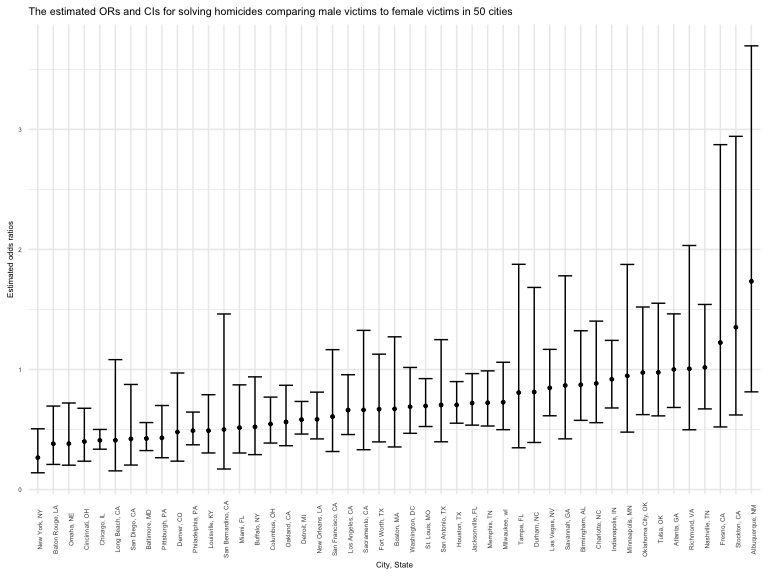
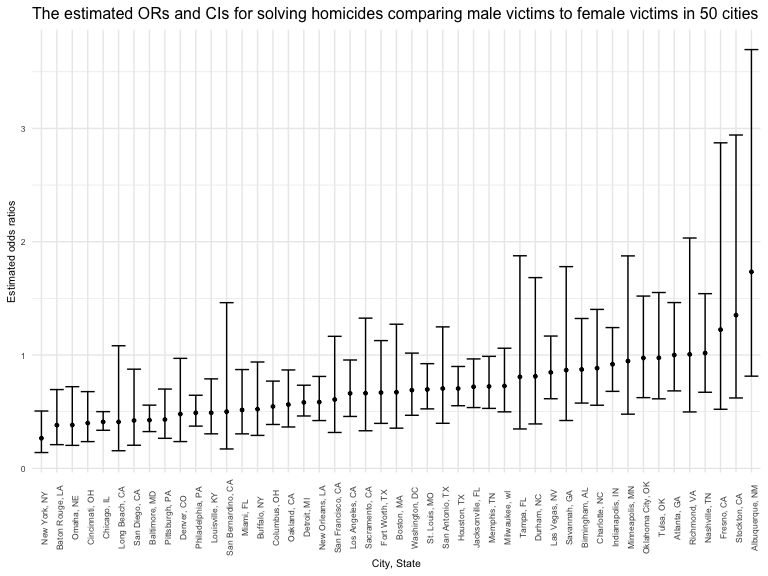
problem 3 Visualize the comparison in terms of the cross-validated prediction error.

Changed region(s): [[0.0, 0.0625, 1.0, 1.0], [0.0312, 0.0, 1.0, 0.0312], [0.9688, 0.0625, 1.0, 0.0938]]

diff --git a/p8105_hw6_wz2631.md b/p8105_hw6_wz2631.md
@@ -206,7 +206,7 @@ fit_all_data %>%
   labs(x = "City, State",
        y = "Estimated odds ratios",
        title = "The estimated ORs and CIs for solving homicides comparing male victims to female victims in 50 cities") +
-  theme(plot.title = element_text(size = 8),text = element_text(size = 6), axis.text.x = element_text(angle = 90)) 
+  theme(plot.title = element_text(size = 12),text = element_text(size = 8), axis.text.x = element_text(angle = 90)) 
 ```
 
 <img src="p8105_hw6_wz2631_files/figure-gfm/unnamed-chunk-7-1.png" width="90%" />
@@ -334,7 +334,7 @@ birthweight_data %>%
   labs(x = "Fitted Values",
        y = "Residuals",
        title = "A regression model for children's birthweights") +
-  theme(plot.title = element_text(size = 10),text = element_text(size = 8)) 
+  theme(plot.title = element_text(size = 14),text = element_text(size = 8)) 
 ```
 
     ## `geom_smooth()` using method = 'gam' and formula 'y ~ s(x, bs = "cs")'
@@ -362,3 +362,23 @@ cv_pre_error =
     rmse_model_2 = map2_dbl(.x = model_2, .y = test, ~rmse(model = .x, data = .y))
     )
 ```
+
+``` r
+cv_pre_error %>% 
+  select(starts_with("rmse")) %>% 
+  pivot_longer(
+    everything(),
+    names_to = "model", 
+    values_to = "rmse",
+    names_prefix = "rmse_"
+    ) %>% 
+  mutate(model = fct_inorder(model)) %>% 
+  ggplot(aes(x = model, y = rmse)) + 
+  geom_violin() +
+  labs(x = "Models",
+       y = "RMSE",
+       title = "Comparison among three models for children's birthweights") +
+  theme(plot.title = element_text(size = 14),text = element_text(size = 8)) 
+```
+
+<img src="p8105_hw6_wz2631_files/figure-gfm/unnamed-chunk-11-1.png" width="90%" />
